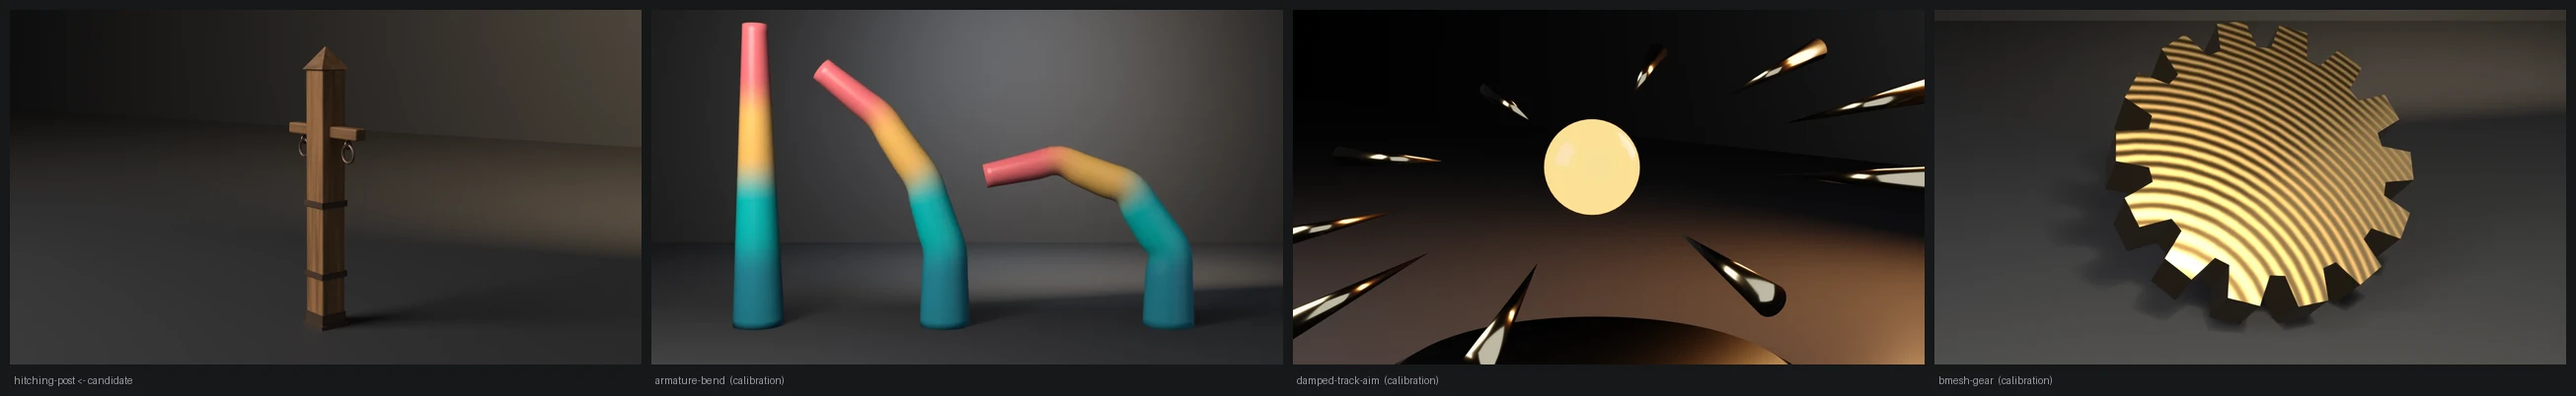
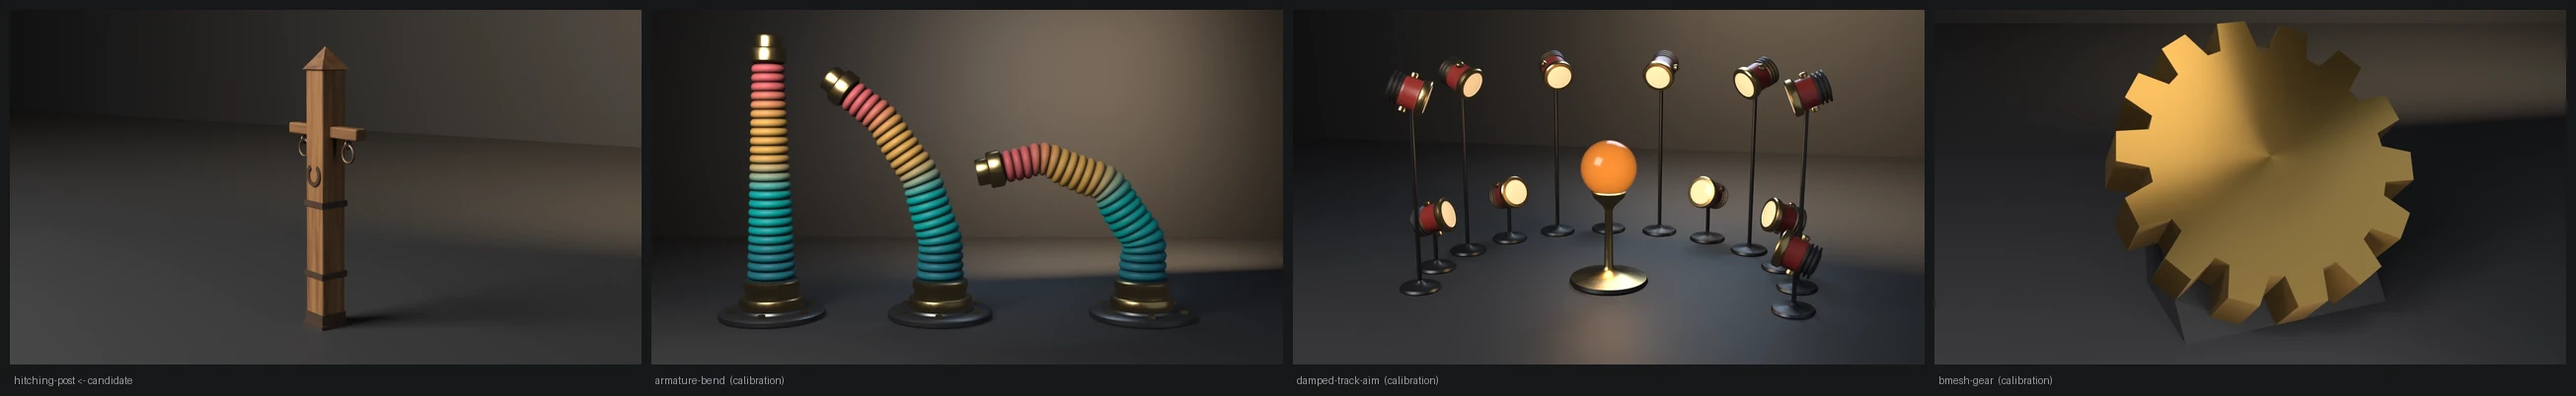
fix(showcase): redesign hitching-post with a face-nailed horseshoe
A lone post with a stub rail read as the plainest object in the showcase
lineup. A horseshoe nailed heels-up to the post's front face is what a
real hitching post carries. It is geometry, so it is budgeted: a flat iron
bar (17 mm x 7.5 mm) swept around 290 degrees of an arc, heels capped,
centred on the post between the upper band and the rail, clear of the
rings. Its back bites the post face 1.5 mm (HS_BITE), and its face stands
7.5 mm proud.

The shell classifier separates it from the hung rings, which are the same
flat-loop shape class, by position: on the post's centre line, not at
+-EYE_X. A new Horseshoe seat budget reads the bite and stand-off against
the post's front face off the mesh (count exactly 1, bite 0.0005-0.004 m,
proud >= 0.004 m). New falsifier --float-horseshoe pulls it 4 mm off the
face and exits 18. The hero key rises 660 -> 960 W, into the calibration
luma band.

Evidence (live runs, local):
- .scratch/blender-5.2.1-windows-x64/blender.exe (Blender 5.2.1 LTS) and
  .scratch/blender-4.5.11-windows-x64/blender.exe (Blender 4.5.11 LTS):
  default exit 0 on both. base_tris 1852 (declared 1400-2400; was 1680),
  wood 114 / metal 828 faces, bbox (0.5000, 0.1490, 1.2460) unchanged,
  collider 80 tris, horseshoes=1 hs_bite 0.00150 hs_proud 0.00750, all
  other seats unchanged, hygiene 0, zfight 0.
- Falsifiers, identical on both: --skip-decimate 9, --stray-vert 15,
  --twin-sole 15 (zfight 6), --lift-z 16, --clip-ring 18 (ring_err
[…]

diff --git a/showcase/hitching-post/hitching_post.py b/showcase/hitching-post/hitching_post.py
@@ -1,7 +1,8 @@
 """Game-ready hitching post — a showcase piece, not an example.
 
 Asserts budget conformance of a procedural timber hitching post (square
-post, pyramidal cap, cross-arm, iron shoe, bands, and hitching rings)
+post, pyramidal cap, cross-arm, iron shoe, bands, hitching rings and a
+face-nailed horseshoe)
 after composing shipped pipeline pieces: bmesh construction, UVs, two
 materials, high-to-low normal bake, LOD chain, convex collider, Unity
 glTF export.
@@ -15,7 +16,8 @@ plate so the coplanar-face budget fails. ``--clip-ring`` lifts a hung
 ring off the eye centerline. ``--short-post`` starts the post above the
 shoe cup so the seated-post budget fails. ``--sunk-bands`` builds the
 iron bands inside the post, as the piece first shipped, so the band-seat
-budget fails.
+budget fails. ``--float-horseshoe`` pulls the horseshoe off the post face
+so the horseshoe-seat budget fails.
 
 Construction is closed-form; the only RNG is the seeded per-piece wood
 tone. DECIMATE COLLAPSE triangle counts
@@ -79,6 +81,22 @@ BAND_ZS = (0.24, 0.56)
 # corners broke the surface, as black slits. --sunk-bands restores that.
 BAND_BITE = 0.0015
 BAND_PROUD_MIN = 0.004
+
+# A horseshoe nailed to the post's front face, heels up for luck: a flat
+# iron bar swept around 290 degrees of an arc in the XZ plane. Its back face
+# bites the post face by HS_BITE and it stands HS_T proud of it. It sits
+# between the upper band and the rail, clear of the rings.
+HS_Z = 0.690
+HS_R_IN = 0.033
+HS_R_OUT = 0.050
+HS_T = 0.0075
+HS_BITE = 0.0015
+HS_OPEN_DEG = 70.0            # opening at the top, centred on +Z
+HS_STATIONS = 22
+HS_BITE_MIN = 0.0005
+HS_BITE_MAX = 0.004
+HS_PROUD_MIN = 0.004
+HS_FLOAT = 0.004              # --float-horseshoe pulls it off the face by this
 # Per-piece wood tone jitter and grain frequency, as in shipping-crate.
 PLANK_TONE_JITTER = 0.28
 TONE_SEED = 29
@@ -436,7 +454,7 @@ def _bvh(me, poly_ids):
 def seat_audit(me):
     """Recompute cup, hung-ring, and plumb budgets from the generated shells."""
     post = arm = cap = None
-    soles, rings, eyes, bands, shanks = [], [], [], [], []
+    soles, rings, eyes, bands, shanks, shoes_hs = [], [], [], [], [], []
     for idxs, polys in _face_shells(me):
         x0, x1, y0, y1, z0, z1 = _bounds(me, idxs)
         dx, dy, dz = x1 - x0, y1 - y0, z1 - z0
@@ -456,6 +474,10 @@ def seat_audit(me):
             continue
         if z0 < 0.004 and dz < 0.030 and dx > 0.10:
             soles.append(rec)
+        elif dy < 0.025 and dx > 0.06 and dz > 0.06 and abs(rec["c"].x) < 0.06:
+            # flat, face-mounted, on the post's centre line: the horseshoe
+            # (the hung rings are the same shape class but hang at +-EYE_X)
+            shoes_hs.append(rec)
         elif dy < 0.025 and dx > 0.06 and dz > 0.06:
             rings.append(rec)
         elif dx < 0.025 and dy > 0.025 and dz > 0.02:
@@ -485,6 +507,9 @@ def seat_audit(me):
         "shank_ring": 99,
         "shank_eye": 0,
         "band_proud": -1.0,
+        "horseshoes": len(shoes_hs),
+        "hs_bite": -1.0,
+        "hs_proud": -1.0,
     }
     if (
         post is None
@@ -544,6 +569,14 @@ def seat_audit(me):
         bx0, bx1, by0, by1, _bz0, _bz1 = _bounds(me, band["idxs"])
         band_proud = min(band_proud, 0.25 * ((bx1 - bx0) + (by1 - by0)) - post_half)
 
+    # Horseshoe seat, read against the post's own front face off the mesh:
+    # how deep its back bites into the post and how far its face stands out.
+    hs_bite = hs_proud = -1.0
+    if len(shoes_hs) == 1:
+        ys = [me.vertices[i].co.y for i in shoes_hs[0]["idxs"]]
+        hs_bite = max(ys) - post_y0
+        hs_proud = post_y0 - min(ys)
+
     pos, neg = [], []
     for i in arm["idxs"]:
         co = me.vertices[i].co
@@ -571,6 +604,8 @@ def seat_audit(me):
         "shank_ring": shank_ring,
         "shank_eye": shank_eye,
         "band_proud": band_proud,
+        "hs_bite": hs_bite,
+        "hs_proud": hs_proud,
     })
     return out
 
@@ -694,6 +729,28 @@ def add_torus(bm, center, major, minor, axis, mat_idx, n_major=24, n_minor=8):
     return made
 
 
+def add_horseshoe(bm, cz, y_back, y_front, mat_idx):
+    """Flat bar swept around the arc; rectangular section, capped heels."""
+    half_open = math.radians(HS_OPEN_DEG) * 0.5
+    a0 = math.pi * 0.5 + half_open
+    a1 = math.pi * 0.5 - half_open + 2.0 * math.pi
+    rings = []
+    for i in range(HS_STATIONS):
+        a = a0 + (a1 - a0) * i / (HS_STATIONS - 1)
+        ca, sa = math.cos(a), math.sin(a)
+        rings.append([
+            bm.verts.new((r * ca, y, cz + r * sa))
+            for r, y in ((HS_R_IN, y_back), (HS_R_OUT, y_back),
+                         (HS_R_OUT, y_front), (HS_R_IN, y_front))
+        ])
+    for r0, r1 in zip(rings, rings[1:]):
+        for k in range(4):
+            m = (k + 1) % 4
+            bm.faces.new((r0[k], r0[m], r1[m], r1[k])).material_index = mat_idx
+    bm.faces.new(tuple(reversed(rings[0]))).material_index = mat_idx
+    bm.faces.new(tuple(rings[-1])).material_index = mat_idx
+
+
 def build_hitching_post_mesh(
     name,
     bevel_offset,
@@ -703,6 +760,7 @@ def build_hitching_post_mesh(
     twin_sole=False,
     small_cap=False,
     sunk_bands=False,
+    float_horseshoe=False,
 ):
     """Post on a closed shoe, one rail, rings hung through eyes under the rail.
 
@@ -789,6 +847,12 @@ def build_hitching_post_mesh(
         band_in = (half - grip) if sunk_bands else (half - BAND_BITE)
         for z in BAND_ZS:
             add_square_band(bm, z, band_in, BAND_T, BAND_H, METAL_IDX)
+
+        # the post's front face is flat across |x| < half - bevel, wider than
+        # the shoe; seat the shoe's back face HS_BITE inside it
+        hs_shift = -HS_FLOAT if float_horseshoe else 0.0
+        hs_back = -half + HS_BITE + hs_shift
+        add_horseshoe(bm, HS_Z, hs_back, hs_back - HS_BITE - HS_T, METAL_IDX)
 
         arm_bottom = ARM_Z - ARM_ZTH * 0.5
         eye_z = arm_bottom - EYE_MAJOR - EYE_MINOR - 0.004
@@ -1135,6 +1199,7 @@ def check(
     clip_ring=False,
     short_post=False,
     sunk_bands=False,
+    float_horseshoe=False,
 ):
     bpy.ops.wm.read_factory_settings(use_empty=True)
     low = build_hitching_post_mesh(
@@ -1145,6 +1210,7 @@ def check(
         clip_ring=clip_ring,
         twin_sole=twin_sole,
         sunk_bands=sunk_bands,
+        float_horseshoe=float_horseshoe,
     )
     high = build_hitching_post_mesh(
         "HitchPostHigh", bevel_offset=0.008, bevel_segments=4, sunk_bands=sunk_bands,
@@ -1247,7 +1313,8 @@ def check(
         f"shank_ring={seat['shank_ring']} shank_eye={seat['shank_eye']} "
         f"parts={seat['post']}/{seat['arm']}/{seat['cap']}/"
         f"soles={seat['soles']}/rings={seat['rings']}/eyes={seat['eyes']}/bands={seat['bands']} "
-        f"band_proud={seat['band_proud']:.5f}"
+        f"band_proud={seat['band_proud']:.5f} horseshoes={seat['horseshoes']} "
+        f"hs_bite={seat['hs_bite']:.5f} hs_proud={seat['hs_proud']:.5f}"
     )
 
     if not (BASE_TRIS_MIN <= base_tris <= BASE_TRIS_MAX):
@@ -1354,6 +1421,9 @@ def check(
         or seat["shank_ring"]
         or seat["shank_eye"] < 1
         or seat["band_proud"] < BAND_PROUD_MIN
+        or seat["horseshoes"] != 1
+        or not (HS_BITE_MIN <= seat["hs_bite"] <= HS_BITE_MAX)
+        or seat["hs_proud"] < HS_PROUD_MIN
     ):
         return fail(
             f"hung ring / shoe seat ring_err={seat['ring_err']:.5f} "
@@ -1361,7 +1431,9 @@ def check(
             f"band_gap={seat['band_gap']:.5f} sole_shoe={seat['sole_shoe']} "
             f"shank_ring={seat['shank_ring']} shank_eye={seat['shank_eye']} "
             f"band_proud={seat['band_proud']:.5f} (min {BAND_PROUD_MIN}) "
-            "(--clip-ring / --sunk-bands are the designed fails)",
+            f"horseshoes={seat['horseshoes']} hs_bite={seat['hs_bite']:.5f} "
+            f"(band [{HS_BITE_MIN}, {HS_BITE_MAX}]) hs_proud={seat['hs_proud']:.5f} "
+            "(--clip-ring / --sunk-bands / --float-horseshoe are the designed fails)",
             18,
         ), None, None, None, None, None
     if (
@@ -1437,8 +1509,8 @@ def render_still(low, wood, tex, path, engine):
         ob.rotation_euler = tuple(math.radians(a) for a in rot)
         scene.collection.objects.link(ob)
 
-    light("Key", (-3.6, -5.0, 5.4), 660.0, 4.0, (1.0, 0.94, 0.86), (50, 0, -36))
-    light("Fill", (5.0, -3.4, 2.4), 46.0, 8.0, (0.72, 0.82, 1.0), (62, 0, 50))
+    light("Key", (-3.6, -5.0, 5.4), 960.0, 4.0, (1.0, 0.94, 0.86), (50, 0, -36))
+    light("Fill", (5.0, -3.4, 2.4), 70.0, 8.0, (0.72, 0.82, 1.0), (62, 0, 50))
     light("Wedge", (2.2, 4.0, 3.8), 600.0, 5.5, (1.0, 0.70, 0.40), (-70, 0, 198))
 
     cam_data = bpy.data.cameras.new("Cam")
@@ -1525,6 +1597,11 @@ def main():
         action="store_true",
         help="falsification: bands inside the post, only the corners showing",
     )
+    p.add_argument(
+        "--float-horseshoe",
+        action="store_true",
+        help="falsification: pull the horseshoe off the post face",
+    )
     args = p.parse_args(argv)
 
     code, low, _high, wood, tex, _col = check(
@@ -1535,6 +1612,7 @@ def main():
         clip_ring=args.clip_ring,
         short_post=args.short_post,
         sunk_bands=args.sunk_bands,
+        float_horseshoe=args.float_horseshoe,
     )
     if code:
         return code

diff --git a/showcase/hitching-post/README.md b/showcase/hitching-post/README.md
@@ -2,8 +2,8 @@
 
 A showcase piece, not an example. Procedural timber hitching post: a
 125 mm square post seated in a closed iron shoe, one cross-rail through
-the post, a pyramidal cap with eaves, and two rings hung through eyes
-under the rail. Then the shipped pipeline: unique-cell UVs, Cycles
+the post, a pyramidal cap with eaves, two rings hung through eyes
+under the rail, and a horseshoe nailed heels-up to the post's face. Then the shipped pipeline: unique-cell UVs, Cycles
 high-to-low normal bake, LOD chain, convex collider, Unity glTF export.
 
 It asserts **budget conformance** of the generated result. It does not
@@ -25,12 +25,12 @@ imported). Coplanar-pair counting matches `showcase/signpost`.
 Declared as named constants; every gate **recomputes** from the mesh,
 materials, UVs, evaluated LOD, collider, or export file.
 
-| Axis | Declared | Measured (4.5.11 / 5.1.2 / 5.2.1) |
+| Axis | Declared | Measured (4.5.11 / 5.2.1) |
 | --- | --- | --- |
-| Base triangles | 1400–2400 | 1680 / 1680 / 1680 |
-| LOD1 ratio | 0.32–0.62 of base | 0.5000 / 0.5000 / 0.5000 |
-| LOD2 ratio | 0.10–0.35 of base | 0.2190 / 0.2190 / 0.2190 |
-| Materials | exactly 2 distinct, ≥70 wood, ≥560 metal | 2 slots, 114 wood, 742 metal |
+| Base triangles | 1400–2400 | 1852 / 1852 |
+| LOD1 ratio | 0.32–0.62 of base | 0.5000 / 0.5000 |
+| LOD2 ratio | 0.10–0.35 of base | 0.2192 / 0.2192 |
+| Materials | exactly 2 distinct, ≥70 wood, ≥560 metal | 2 slots, 114 wood, 828 metal |
 | UVs | in `0..1`, AABB overlap ≤ 1e-5 | in range, overlap 0 |
 | Outer AABB | (0.500, 0.149, 1.246) m ± 0.01 | (0.5000, 0.1490, 1.2460) |
 | Grounded zmin | within 1e-4 of 0 | 0 / 0 / 0 |
@@ -39,9 +39,10 @@ materials, UVs, evaluated LOD, collider, or export file.
 | Hung ring | centerline error ≤ 0.008 m, ring–wood overlap 0, eye–wood overlap 0, shank–ring overlap 0, shank bites the eye | 0, 0, 0, 0, 40 |
 | Shoe | each band overlaps the post, shoe overlaps the sole | band gap 0, sole–shoe 8 |
 | **Band seat** | each band above the shoe stands ≥ 0.004 m proud of the post faces | 0.00650 |
+| **Horseshoe seat** | exactly 1; back bites the post face 0.0005–0.004 m, face ≥ 0.004 m proud | 1, 0.00150, 0.00750 |
 | Wood–metal gap | BVH surface < 0.008 m | 0.00075 |
 | Collider tris | ≤ 280 | 80 |
-| Export | written, size > 0 | 127424 / 127424 / 127412 bytes |
+| Export | written, size > 0 | 139464 / 139452 bytes |
 
 Base triangles rose from **1598 to 1680**. The old rings were faceted
 tori clipped into the arm; the new eyes, shanks, and 24-segment hung
@@ -54,7 +55,26 @@ binaries agreed. Bake pixels are stochastic; the gate is `has_data`
 plus operator `FINISHED`, not byte-identity. Construction is
 closed-form; the only RNG is the seeded per-piece wood tone. Bevel inputs are sorted by edge index, so the face order is the same on
 every run; a Python set of edges handed to the bevel had made it vary.
-Export byte counts differ on 5.2.1 (glTF serializer), not a gated axis. Euler is 12 (six balls and seven tori) and is not gated to 2.
+Export byte counts differ on 5.2.1 (glTF serializer), not a gated axis. Euler is 14 (12 before the horseshoe added one more closed shell) and is not gated to 2.
+
+### Horseshoe
+
+A lone post with a stub rail read as the plainest object in the showcase
+lineup. A horseshoe nailed heels-up to the post's front face is what a
+real hitching post carries, and it is geometry, so it is budgeted: a
+flat iron bar (17 mm wide, 7.5 mm thick) swept around 290° of an arc,
+heels capped, centred on the post between the upper band and the rail
+and clear of the rings. Its back face bites the post face by 1.5 mm
+(`HS_BITE`); its face stands 7.5 mm proud. The shell classifier sets it
+apart from the hung rings, which are the same flat-loop shape class, by
+where it sits (on the post's centre line, not at ±`EYE_X`). **Horseshoe
+seat** reads the bite and the stand-off against the post's own front face
+off the mesh; `--float-horseshoe` pulls it 4 mm off the face and exits 18
+(bite −0.0025 m). It moved the budgets it should: base triangles 1680 →
+1852 (inside the declared 1400–2400) and metal faces 742 → 828. The outer
+AABB, collider (80 tris) and every other seat are unchanged. The hero key
+light rose from 660 to 960 W so the still sits in the calibration luma
+band.
 
 ### Bands, wood and stage
 
@@ -83,6 +103,7 @@ Each falsifier violates exactly one named budget. Proven on Blender
 | `--clip-ring` | Hung-ring centerline | 18 | ring_err 0.024, ring–wood overlap 32 |
 | `--short-post` | Seated post | 19 | post zmin 0.030 |
 | `--sunk-bands` | Band seat | 18 | band proud −0.0015 |
+| `--float-horseshoe` | Horseshoe seat | 18 | bite −0.0025 |
 
 Default exit is 0 on all three. `--clip-ring` also overlaps the rail;
 the centerline gate is the one that fires.
@@ -98,6 +119,7 @@ blender --background --python hitching_post.py -- --lift-z
 blender --background --python hitching_post.py -- --clip-ring
 blender --background --python hitching_post.py -- --short-post
 blender --background --python hitching_post.py -- --sunk-bands
+blender --background --python hitching_post.py -- --float-horseshoe
 blender --background --python hitching_post.py -- --output preview.webp --engine cycles
 ```
 
@@ -128,5 +150,5 @@ File-local. `9` is a valid check code. `10` is reserved for
 | 15 | Hygiene, including coplanar pairs (`--stray-vert`, `--twin-sole`) |
 | 16 | Grounded zmin (`--lift-z`) |
 | 17 | Wood–metal BVH gap above 8 mm |
-| 18 | Hung ring, shoe or band seat (`--clip-ring`, `--sunk-bands`) |
+| 18 | Hung ring, shoe, band or horseshoe seat (`--clip-ring`, `--sunk-bands`, `--float-horseshoe`) |
 | 19 | Post plumb, origin, and cup seat (`--short-post`) |

diff --git a/README.md b/README.md
@@ -124,7 +124,7 @@ Budget-conformance props. Not examples. Conventions: [`showcase/README.md`](show
   <a href="showcase/wheelbarrow/"><img src="showcase/wheelbarrow/preview.webp" width="24%" alt="Wheelbarrow: a wooden tray with walls of stacked boards and iron straps, a spoked wheel, rear legs, and handles on a dark studio floor" /></a>
   <a href="showcase/anvil/"><img src="showcase/anvil/preview.webp" width="24%" alt="Anvil: a dark forged-steel London-pattern anvil with a flared, squared waist on a hooped timber stump on a dark studio floor" /></a>
   <a href="showcase/water-trough/"><img src="showcase/water-trough/preview.webp" width="24%" alt="Water trough: a watertight wooden trough with plank ends, contained water, and trestle legs on a dark studio floor" /></a>
-  <a href="showcase/hitching-post/"><img src="showcase/hitching-post/preview.webp" width="24%" alt="Hitching post: a square timber post with a pyramidal cap, cross-arm, iron bands wrapped around it, and two hitching rings on a dark studio floor" /></a>
+  <a href="showcase/hitching-post/"><img src="showcase/hitching-post/preview.webp" width="24%" alt="Hitching post: a square timber post with a pyramidal cap, cross-arm, iron bands wrapped around it, two hitching rings and a nailed horseshoe on a dark studio floor" /></a>
   <a href="showcase/grindstone/"><img src="showcase/grindstone/preview.webp" width="24%" alt="Grindstone: a stone wheel on a timber A-frame with an iron axle, hubs, crank, and tray on a dark studio floor" /></a>
   <a href="showcase/hand-pump/"><img src="showcase/hand-pump/preview.webp" width="24%" alt="Hand pump: a matte black cast-iron village pump on a stepped wooden plinth with a spout and handle on a dark studio floor" /></a>
   <a href="showcase/signpost/"><img src="showcase/signpost/preview.webp" width="24%" alt="Signpost: a timber crossroads post with three painted fingerboards lettered MILLBROOK 2, OAKHAM 5 and FORD 1, iron straps, and a pyramidal cap on a dark studio floor" /></a>
